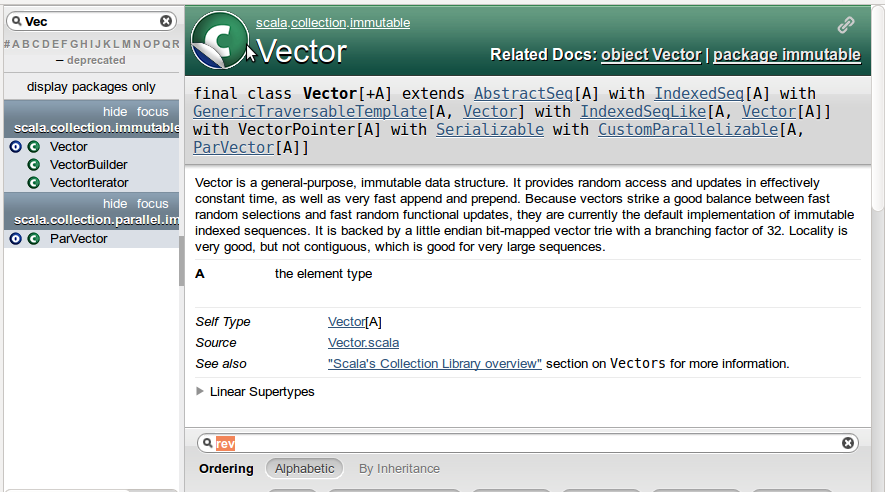
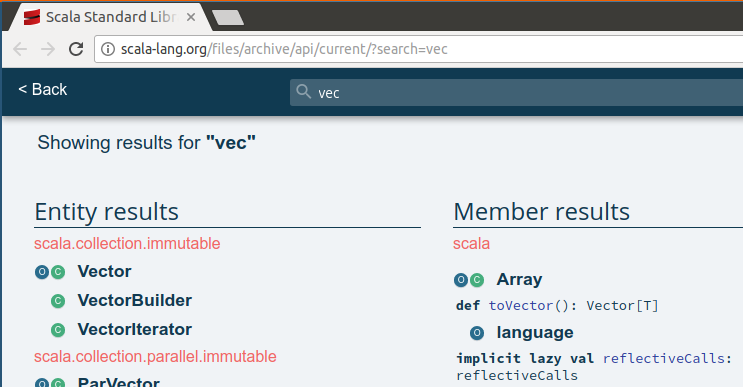
update align scaladoc appendix with modern scaladoc, add screens dumps

diff --git a/compendium/postchapters/document.tex b/compendium/postchapters/document.tex
@@ -11,12 +11,12 @@ Nedan listas exempel på olika typer av  dokumentation\footnote{\href{https://en
 \item \textbf{Kravdokumentation} beskriver det övergripande målet med mjukvaran, samt funktionella krav och kvalitetskrav som uppfylls av systemet.
 \item \textbf{Designdokumentation} beskriver arkitekturen, hur koden är organiserad i moduler, och den interna systemstrukturen t.ex. i form av klasser, objekt och deras relation.
 \item \textbf{Slutanvändardokumentation} kan t.ex. vara manualer för användning av systemet och installationsanvisningar.
-\item \textbf{Teknisk dokumentation} kan t.ex. vara api-dokumentation som beskriver vilka funktioner som ingår i ett programbibliotek. Sådan dokumentation genereras ofta med hjälp av ett \textbf{dokumentationsverktyg} (se avsnitt \ref{appendix:buildtool}).  Andra typer av teknisk dokumentation är instruktioner om hur man bygger koden med eventuellt tillhörande byggverktygskonfigurationsfiler; ofta beskrivs byggförfarandet steg för steg i en textfil med namnet \code{README}. (Läs mer om byggverktyg i appendix \ref{appendix:build}.) 
+\item \textbf{Teknisk dokumentation} kan t.ex. vara api-dokumentation som beskriver vilka funktioner som ingår i ett programbibliotek. Sådan dokumentation genereras ofta med hjälp av ett \textbf{dokumentationsverktyg} (se avsnitt \ref{appendix:buildtool}).  Andra typer av teknisk dokumentation är instruktioner om hur man bygger koden med eventuellt tillhörande byggverktygskonfigurationsfiler; ofta beskrivs byggförfarandet steg för steg i en textfil med namnet \code{README}. (Läs mer om byggverktyg i appendix \ref{appendix:build}.)
 \end{itemize}
 
-\noindent Det är en stor utmaning att hålla dokumentationen uppdaterad allteftersom koden utvecklas. Även om man får hjälp att generera en navigerbar sajt av ett dokumentationsverktyg, måste själva \textit{innehållet} i de manuellt författade dokumentationskommentarerna vara i överensstämmelse med den aktuella versionen av koden. Uppdateras koden, måste man alltså vara noga med att uppdatera dokumentationskommentarerna, annars uppstår stor förvirring. 
+\noindent Det är en stor utmaning att hålla dokumentationen uppdaterad allteftersom koden utvecklas. Även om man får hjälp att generera en navigerbar sajt av ett dokumentationsverktyg, måste själva \textit{innehållet} i de manuellt författade dokumentationskommentarerna vara i överensstämmelse med den aktuella versionen av koden. Uppdateras koden, måste man alltså vara noga med att uppdatera dokumentationskommentarerna, annars uppstår stor förvirring.
 
-Detta problem är så pass allvarligt att man ska tänka sig noga för hur man kan formulera  dokumentationskommentarerna på ett framtidssäkert sätt, och hur omfattande de ska vara i förhållande till den framtida arbetsinsatsen med att hålla dem uppdaterade. Desto mer omfattande kommentarer desto mer jobb att hålla dem uppdaterade. 
+Detta problem är så pass allvarligt att man ska tänka sig noga för hur man kan formulera  dokumentationskommentarerna på ett framtidssäkert sätt, och hur omfattande de ska vara i förhållande till den framtida arbetsinsatsen med att hålla dem uppdaterade. Desto mer omfattande kommentarer desto mer jobb att hålla dem uppdaterade.
 
 Det är i praktiken svårt att uppnå en optimal balans mellan bra och många kommentarer som \textit{hjälper} användaren, och å andra sidan svårunderhållna och föråldrade kommentarer som \textit{stjälper} användare.
 
@@ -48,7 +48,7 @@ Utdata från ett dokumentationsverktyg utgörs typiskt av en webbsajt med ändam
 \section{scaladoc}
 \newcommand{\scaladoc}{\texttt{scaladoc}}
 
-Med Scala-installationen följer dokumentationsverktyget \scaladoc, som genererar en webbsajt med ändamålsenlig layout och specialfunktioner för att söka, filtrera och navigera i dokumentationen. 
+Med Scala-installationen följer dokumentationsverktyget \scaladoc, som genererar en webbsajt med ändamålsenlig layout och specialfunktioner för att söka, filtrera och navigera i dokumentationen.
 
 Dokumentationen av stora bibliotek kan bli omfattande och det krävs träning i att använda dokumentationssajter för att få maximal nytta av dem. I efterföljande avsnitt beskrivs först hur du använder dokumentation som är genererad med \scaladoc. Därefter visas hur du själv kan generera dokumentation för din egen kod.
 
@@ -56,60 +56,64 @@ Dokumentationen av stora bibliotek kan bli omfattande och det krävs träning i 
 \subsection{Använda dokumentation från scaladoc}
 
 Dokumentationen av Scalas standardbiliotek är genererad med \scaladoc\ och att navigera i denna ger bra träning i hur man använder avancerad api-dokumentation. Du hittar dokumentationen för Scalas standardbibliotek här: \\
-\url{http://scala-lang.org/api/current} 
+\url{http://scala-lang.org/api/current}
 
 
 När du surfar dit möts du av dokumentationen för \textit{root package}, som ger en översikt av olika paket i standardbiblioteket. I sökrutan uppe till vänster kan du skriva början på namnet på klasser, traits, eller objekt som du letar efter, så som visas i figure \ref{fig:scaladoc:root-package}.
 
 \begin{figure}[H]
 \centering
-\includegraphics[width=0.8\textwidth]{../img/scaladoc/scaladoc-root}
+\includegraphics[width=1.0\textwidth]{../img/scaladoc/scaladoc-root}
 
-     \caption{ \scaladoc.}
+     \caption{Förstasidan med dokumentationen av standardbiblioteket i Scala.}
     \label{fig:scaladoc:root-package}
 \end{figure}
 
-Om du är speciellt intresserad av, t.ex., paketet \code{scala.collection.immutable}, kan du klicka \textbf{focus} för att begränsas visningen till att endast innehålla typerna i detta paket.
-
-Om du söker efter typen där en viss metod är implementerad, men inte vet riktigt i vilken klass den finns, kan du klicka på bokstaven som metodnamnet börjar på i listan med bokstäver under den övre vänstra sökrutan. Då får du en lista med allt möjligt som börjar på F, så som visas i figur \ref{fig:scaladoc:find}. Sök i listan med din webbläsares sökfunktion (Ctrl+F) efter ''fill'', så hittar du alla typer som implementerar metoden \code{fill}. 
-
-\begin{figure}[H]
-\centering
-\includegraphics[width=1.0\textwidth]{../img/scaladoc/scaladoc-find-fill}
-
-     \caption{ \scaladoc.}
-    \label{fig:scaladoc:find}
-\end{figure}
-
-Om du klickar vidare, i detta exempel på länken till klassen Array, kan du sedan klicka på länken till källkoden i \texttt{array.scala} för att se implementationen på GitHub; sök på sidan med din webbläsares sökfunktion Ctrl+F efter ''def fill''.
-
-
-
-
-
-Om du klickar på den typ du är intresserad av, t.ex. klassen Vector, får du upp en sida med en mängd information, inklusive alla metoder, även ärvda. Figur \ref{fig:scaladoc:vector} visar hur en sökning bland alla metoder i Vector initieras i sökrutan nere till höger, vilken kommer att visa metoder som börjar på ''rev'', här skrollas fönstret till metoden \code{reverse} längre ner på sidan.
-
-Genom att klicka på den gröna cirkeln med bokstaven C överst i dokumentationsfönstret, växlar du till vyn för kompanjonsobjektet där du hittar alla fabriksmetoder för Vector, även ärvda, t.ex. \code{fill} som du kan söka efter i sökrutan. 
-
-
+Genom att skriva text i sökrutan får du en filtrerad lista på allt som har ett namn som börjar på det söker efter. I figur \ref{fig:scaladoc:vec} visas en sökning efter \code{vec}.
 
 \begin{figure}[H]
 \centering
 \includegraphics[width=1.0\textwidth]{../img/scaladoc/scaladoc-vec}
 
-     \caption{ \scaladoc.}
+     \caption{ Sökning efter innehåll som börjar på \code{vec}.}
+    \label{fig:scaladoc:vec}
+\end{figure}
+
+Om du klickar på \code{Vector} får du se dokumentationen i figur  \ref{fig:scaladoc:vector}
+
+\begin{figure}[H]
+\centering
+\includegraphics[width=0.9\textwidth]{../img/scaladoc/scaladoc-vector}
+
+     \caption{En del av dokumentationen av klassen \code{Vector}}
     \label{fig:scaladoc:vector}
 \end{figure}
 
+Genom att skriva text i den nedre, mörkgrå sökrutan kan du filtrera listan med klassmedlemmar. Om klickar på länken \code{object Vector}, eller på den runda, gröna ikonen med ett stort C, får du se kompanjonsobjektets medlemmer.
+Du kan få fram en filtreringsruta med fler möjligheter genom att klicka på expanderingspilen i den mörkgrå sökrutan så som visas i figur \ref{fig:scaladoc:filter}.
+
+
+
+\begin{figure}[H]
+\centering
+\includegraphics[width=0.75\textwidth]{../img/scaladoc/scaladoc-filter}
+
+     \caption{Expanderad sökruta med extra filtreringsmöjligheter.}
+    \label{fig:scaladoc:filter}
+\end{figure}
+
+%Det finns fler sökmöjligheter och finesser i \scaladoc. Prova att klicka på olika länkar och symboler och upptäck vad du kan få fram för information. Träning i att använda \scaladoc~gör dig till en mer produktiv Scala-utvecklare.
+
+\clearpage
 
 \subsection{Skriva dokumentationskommentarer för scaladoc}
 
 
 Verktyget \scaladoc\ läser kommentarer som börjar med \verb|/**| och slutar med \verb|*/| och associeras till efterföljande deklaration. Notera de dubbla asteriskerna. Alla rader som följer efter \verb|/**| ska, enligt konventionen för Scalas dokumentationskommentarer, börja med en asterisk \code|*| med indrag med flera blanksteg så att den hamnar under \textit{andra} asterisken i öppningskommentaren, som nedan:
 \begin{Code}
-/** Först kommer en sammanfattning på en enda rad. 
-  * 
-  * Sedan kommer eventuellt en mer detaljerad beskrivning, 
+/** Först kommer en sammanfattning på en enda rad.
+  *
+  * Sedan kommer eventuellt en mer detaljerad beskrivning,
   * som kan vara flera rader lång.
   */
 \end{Code}
@@ -127,9 +131,9 @@ $ scaladoc mio.scala -d apidoc
 $ firefox apidoc/index.html
 \end{REPLnonum}
 
-I figur \ref{fig:scaladoc:webpage} på sidan \pageref{fig:scaladoc:webpage} visas delar av en webbsida som genererats utifrån koden i figur \ref{fig:scaladoc:mio} på sidan \pageref{fig:scaladoc:mio}. För de publika metoder där ingen dokumentationskommentar finns, visas ändå metodens signatur med parametrar, parametertyper, och returtyp. Medlemmar som deklareras \code{private} visas inte, men om man klickar på knappen \Button{All} bredvid rubriken \textbf{Visibility} visas medlemmar som är deklarerade \code {protected}.
+I figur \ref{fig:scaladoc:webpage} på sidan \pageref{fig:scaladoc:webpage} visas delar av en webbsida som genererats utifrån koden i figur \ref{fig:scaladoc:mio} på sidan \pageref{fig:scaladoc:mio}. För de publika metoder där ingen dokumentationskommentar finns, visas ändå metodens signatur med parametrar, parametertyper, och returtyp. %Medlemmar som deklareras \code{private} visas inte, men om man klickar på knappen \Button{All} bredvid rubriken \textbf{Visibility} visas medlemmar som är deklarerade \code {protected}.
 
-Om du klickar på symbolen \Forward\ till vänster om metodsignaturen, ändras den till symbolen \MoveDown\ som indikerar att den mer detaljerade beskrivningen av parametrar etc. har vecklats ut (i den mån detaljerade kommentarer finns). 
+Om du klickar på symbolen \Forward\ till vänster om metodsignaturen, ändras den till symbolen \MoveDown\ som indikerar att den mer detaljerade beskrivningen av parametrar etc. har vecklats ut (i den mån detaljerade kommentarer finns).
 
 Om du vill ha övergripande dokumentation om ett paket \code{x}, ges det speciella objektet \code{package object x} en dokumentationskommentar med sådan information. Ofta innehåller \code{package object} medlemmar som man vill ska bli synliga vid import av paketet, så som variabler, metoder och implicita medlemmar som inte har någon annan naturlig hemvist.
 
@@ -141,40 +145,43 @@ Om du vill ha övergripande dokumentation om ett paket \code{x}, ges det speciel
 
 \begin{figure}[t]
 \includegraphics[width=1.0\textwidth]{../img/scaladoc/scaladoc-mio}
-    \caption{Delar av en webbsida genererad med hjälp av \scaladoc. Mer detaljerade beskrivningar kan i förekommande fall vecklas ut eller in om man växlar mellan \Forward\ och \MoveDown.}
+    \caption{Delar av en webbsida genererad med hjälp av \scaladoc. %Mer detaljerade beskrivningar kan i förekommande fall vecklas ut eller in om man växlar mellan \Forward\ och \MoveDown.
+    }
     \label{fig:scaladoc:webpage}
 \end{figure}
 
 
-\subsection{Lära mer om scaladoc}
+%\subsection{Lära mer om scaladoc}
 
-\begin{itemize}[leftmargin=*]
+Fler tips om \scaladoc:
+\begin{itemize}%[leftmargin=*]
 
-\item En video med tips om hur du söker och navigerar i \scaladoc-dokumentation: 
-\\
-\url{http://docs.scala-lang.org/overviews/scaladoc/interface.html}
+%\item En video med tips om hur du söker och navigerar i \scaladoc-dokumentation:
+%\\
+%\url{http://docs.scala-lang.org/overviews/scaladoc/interface.html}
 
 \item
 Riktlinjer för hur du skriver dokumentationskommentarer: \\
 \url{http://docs.scala-lang.org/style/scaladoc.html}
 
-\item Länksida till mer detaljerade beskrivningar: \\
-\url{https://wiki.scala-lang.org/display/SW/Writing+Documentation} \\
-inkluderande bland annat:
-
-\begin{itemize}[nolistsep]
-\item En beskrivning av syntaxen för formatering: \\
-\url{https://wiki.scala-lang.org/display/SW/Syntax} 
-
-\item En beskrivning av speciella annoteringar, t.ex. \code{@param}: \\
-\url{https://wiki.scala-lang.org/display/SW/Tags+and+Annotations} 
-
-\end{itemize}
+% \item Länksida till mer detaljerade beskrivningar: \\
+% \url{https://wiki.scala-lang.org/display/SW/Writing+Documentation} \\
+% inkluderande bland annat:
+%
+% \begin{itemize}[nolistsep]
+% \item En beskrivning av syntaxen för formatering: \\
+% \url{https://wiki.scala-lang.org/display/SW/Syntax}
+%
+% \item En beskrivning av speciella annoteringar, t.ex. \code{@param}: \\
+% \url{https://wiki.scala-lang.org/display/SW/Tags+and+Annotations}
+%
+% \end{itemize}
 
 \item Kör kommandot \texttt{ scaladoc -help } för att se användbara optioner.
 
-\item \texttt{sbt doc} är ett smidigt sätt att generera api-dokumentation. Läs mer om \texttt{sbt} och api-dokumentation här: \\
-\url{http://www.scala-sbt.org/0.13/docs/Howto-Scaladoc.html}
+\item Kommandot \texttt{sbt doc} är ett smidigt sätt att automatiskt generera api-dokumentation för alla dina kodfiler om du placerat dem i underbiblioteket \code{src/main/scala} resp. \code{src/main/java}.
+Läs mer om \texttt{sbt} och api-dokumentation här: \\
+\url{http://www.scala-sbt.org/1.x/docs/Howto-Scaladoc.html}
 
 
 \end{itemize}
@@ -189,7 +196,7 @@ Med Java JDK följer dokumentationsverktyget \javadoc, som utifrån dokumentatio
 
 \subsection{Använda dokumentation genererad med javadoc}
 
-I figur \ref{fig:javadoc:overview} visas exempel på \javadoc\ för biblioteket \code{cslib}. Om du klickar på ett paket kan du navigera till en översikt av innehållet i paketet. Om du klickar på en klass får du en översikt av klassens medlemmar, så som visas i \ref{fig:javadoc:class}.  Om du t.ex. klickar på ett metodnamn får du se mer detaljerade kommentarer. 
+I figur \ref{fig:javadoc:overview} visas exempel på \javadoc\ för biblioteket \code{cslib}. Om du klickar på ett paket kan du navigera till en översikt av innehållet i paketet. Om du klickar på en klass får du en översikt av klassens medlemmar, så som visas i \ref{fig:javadoc:class}.  Om du t.ex. klickar på ett metodnamn får du se mer detaljerade kommentarer.
 
 Ramarna till vänster på webbsidorna innehåller länkar till paket och klasser. Om du klickar på länken \textit{All Classes} överst till vänster får du en lista med navigationslänkar till alla tillgängliga klasser. De gulmarkerade rubrikerna visar vilken vy som är aktiv och navigationslänkar skrivs med blå text.
 
@@ -214,17 +221,17 @@ Ramarna till vänster på webbsidorna innehåller länkar till paket och klasser
 
 \subsection{Skriva dokumentationskommentarer för javadoc}
 
-Kommentarer för \javadoc\ och \scaladoc\ ser ganska lika ut, även om det finns några skillnader. Det finns t.ex. inte lika många styrtecken för layouten i \javadoc\ som i \scaladoc, och konventionen i Java är fyra blankstegs indrag och att fortsättningsrader i dokumentationskommentarer börjar asterisken under \textit{första} asterisken i öppningskommentaren. 
+Kommentarer för \javadoc\ och \scaladoc\ ser ganska lika ut, även om det finns några skillnader. Det finns t.ex. inte lika många styrtecken för layouten i \javadoc\ som i \scaladoc, och konventionen i Java är fyra blankstegs indrag och att fortsättningsrader i dokumentationskommentarer börjar asterisken under \textit{första} asterisken i öppningskommentaren.
 
 Nedan visas delar av \javadoc-kommentarerna för klassen \code{SimpleWindow} och dess konstruktor:
 \begin{Code}[language=Java]
 package cslib.window;
- 
+
 /** A simple window to draw in */
 public class SimpleWindow {
    /**
     * Creates a window and makes it visible.
-    * 
+    *
     * @param width   the width of the window
     * @param height  the height of the window
     * @param title   the title of the window
@@ -255,9 +262,9 @@ Ett smidigt sätt att generera både \scaladoc\ och \javadoc\ är att använda \
 Om du lägger in nedan i \code{settings} i din \code{build.sbt} fungerar även svenska bokstäver och andra specialtecken på alla plattformar.
 \begin{Code}
   javacOptions in (Compile, doc) ++= Seq(
-    "-encoding", "UTF-8", 
-    "-charset", "UTF-8", 
+    "-encoding", "UTF-8",
+    "-charset", "UTF-8",
     "-docencoding", "UTF-8")
-\end{Code}  
+\end{Code}
 
 \noindent Du kan också använda din IDE för att köra \javadoc. I Eclipse, använd menyn \MenuArrow{Project}\Menu{Generate Javadoc...}, medan du i IntelliJ hittar motsvarande i menyn \MenuArrow{Tools}\Menu{Generate Javadoc...}

diff --git a/compendium/modules/w07-setmap-exercise.tex b/compendium/modules/w07-setmap-exercise.tex
@@ -103,7 +103,7 @@ scala> xs.foreach(print)
 scala> val hej = "hej hej hemskt mycket hej"
 \end{REPLnonum}
 
-\Subtask Mängder är snabba på att kolla om ett element finns i mängden men du kan inte förvänta dig att elementen finns i någon viss ordning. Det finns en sekvenssamlingsmetod som skapar en sekvens med unika element ur en sekvens och behåller den ursprungliga ordningen. Vad heter metoden? \\\emph{Tips:} Leta i snabbreferensen eller sök på nätet.
+\Subtask Mängder är snabba på att kolla om ett element finns i mängden men du kan inte förvänta dig att elementen finns i någon viss ordning. Det finns en sekvenssamlingsmetod som skapar en sekvens med unika element ur en sekvens och behåller den ursprungliga ordningen. Vad heter metoden? \\\emph{Tips:} Leta i snabbreferensen eller sök på nätet. Metoden fungerar på alla samlingar som är av typen \code{Seq} och har ett namn som börjar med bokstäverna \code{di}.
 
 \SOLUTION
 
@@ -231,7 +231,7 @@ def lookupIndex(xs: Vector[(String, String)])(key: String): Int =
 \SubtaskSolved
 \begin{REPL}
 scala> val i = lookupIndex(huvudstad)("Skåne")
-i: Int = 2
+i: Int = 3
 
 scala> huvudstad(i)._2
 res2: String = Lund
@@ -241,12 +241,12 @@ res2: String = Lund
 \begin{REPL}
 scala> val indexOf = lookupIndex(huvudstad) _
 
-scala> def capitol(key: String) = huvudstad(indexOf(key))._2
+scala> def capital(key: String) = huvudstad(indexOf(key))._2
 
-scala> capitol("Skåne")
+scala> capital("Skåne")
 res3: String = Lund
 
-scala> capitol("Sverige")
+scala> capital("Sverige")
 res4: String = Stockholm
 \end{REPL}
 
@@ -278,7 +278,7 @@ val telnr = Map(
 \end{Code}
 En uppsättning \code{Map}-instanser, vid behov nästlade, kan med fördel användas för att bygga upp en i-minnet-databas där inbyggda samlingsmetoder, t.ex. \code{map}, \code{filter}, och \code{for}-\code{yield}-uttryck, ger flexibla och effektiva sökmöjligheter. På veckans laboration ska du göra detta.
 
-Samlingen \code{Map} är en generalisering av en sekvens, där man kan ''indexera'', inte bara med ett heltal, utan med vilken typ av värde som helst, t.ex. en sträng. Datastrukturen \code{Map} kallas också \emph{associativ array}\footnote{\href{https://en.wikipedia.org/wiki/Associative_array}{https://en.wikipedia.org/wiki/Associative\_array}} och är implementerad som en s.k. \emph{hashtabell}\footnote{\href{https://en.wikipedia.org/wiki/Hash_table}{https://en.wikipedia.org/wiki/Hash\_table}}, men du får vänta till fortsättningskursen innan vi går igenom hur en sådan datastruktur implementeras.
+Samlingen \code{Map} är en generalisering av en sekvens, där man kan ''indexera'', inte bara med ett heltal, utan med vilken typ av värde som helst, t.ex. en sträng. Datastrukturen \code{Map} kallas också \emph{associativ array}\footnote{\href{https://en.wikipedia.org/wiki/Associative_array}{https://en.wikipedia.org/wiki/Associative\_array}} och är implementerad som en s.k. \emph{hashtabell}\footnote{\href{https://en.wikipedia.org/wiki/Hash_table}{https://en.wikipedia.org/wiki/Hash\_table}}, men du får vänta till fördjupningskursen innan vi går igenom hur en sådan datastruktur implementeras.
 
 \SOLUTION
 
@@ -379,7 +379,22 @@ object FreqMapBuilder {
 
 \SOLUTION
 
-\TaskSolved \what~\TODO
+\TaskSolved \what~
+\begin{Code}
+class FreqMapBuilder {
+  private val register = scala.collection.mutable.Map.empty[String,Int]
+  def toMap: Map[String, Int] = register.toMap
+  def add(s: String): Unit =
+    register += (s -> (register.getOrElse(s, 0) + 1))
+}
+object FreqMapBuilder {
+  def apply(xs: String*): FreqMapBuilder = {
+    val result = new FreqMapBuilder
+    xs.foreach(result.add)
+    result
+  }
+}
+\end{Code}
 
 \QUESTEND
 
@@ -439,7 +454,7 @@ Map(är -> fler,
     fler -> än
 )
 \end{REPL}
-Man kan använda tabellen till att slå upp vilket som är efterföljande ord. Det fungerar eftersom alla ord är unika. Om det funnits flera lika dana ord med olika efterföljande ord så hade vi behövt skapa en tabell med nycklar som mappar till en samling som registrerar efterföljande ord. Detta ska vi göra på veckans laboration.
+Man kan använda tabellen till att slå upp vilket som är efterföljande ord. Det fungerar eftersom alla ord är unika. Om det funnits flera likadana ord med olika efterföljande ord så hade vi behövt skapa en tabell med nycklar som mappar till en samling som registrerar efterföljande ord. Detta ska vi göra på veckans laboration.
 
 \QUESTEND
 
@@ -463,7 +478,7 @@ scala> data.foreach(println)
 \begin{Code}
 val populationOf: Map[String, Int]    = ???  // länders invånarantal
 val sizeOf:       Map[String, Int]    = ???  // länders yta i km^2
-val capitolOf:    Map[String, String] = ???  // länders huvudstäder
+val capitalOf:    Map[String, String] = ???  // länders huvudstäder
 \end{Code}
 Testa tabellerna i REPL.
 
@@ -481,11 +496,11 @@ Skriv ut alla raderna i \code{europa.txt} med hjälp av \code{Source.fromFile} i
 \begin{CodeSmall}
 val populationOf = data.tail.map(v => v(0) -> v(1).toInt).toMap
 val sizeOf       = data.tail.map(v => v(0) -> v(2).toInt).toMap
-val capitolOf    = data.tail.map(v => v(0) -> v(3)).toMap
+val capitalOf    = data.tail.map(v => v(0) -> v(3)).toMap
 \end{CodeSmall}
 
 \begin{REPL}
-scala> capitolOf("Sverige")
+scala> capitalOf("Sverige")
 res2: String = Stockholm
 
 scala> populationOf("Sverige")
@@ -596,7 +611,8 @@ ys: Map[Int,Vector[Int]] =
 \SubtaskSolved
 
 \begin{Code}
-def freq(xs: Vector[Int]): Map[Int, Int] = xs.groupBy(x => x).mapValues(_.size)
+def freq(xs: Vector[Int]): Map[Int, Int] =
+  xs.groupBy(x => x).mapValues(_.size)
 \end{Code}
 Förklaring: metoden \code{groupBy} skapar en tabell med par \code{k, v} där \code{v} är en sekvens med så många \code{k} som antalet gånger \code{k} förekommer i \code{xs}. Genom att omvandla alla värden \code{v} till storleken av \code{v} får vi en frekvenstabell.
 
